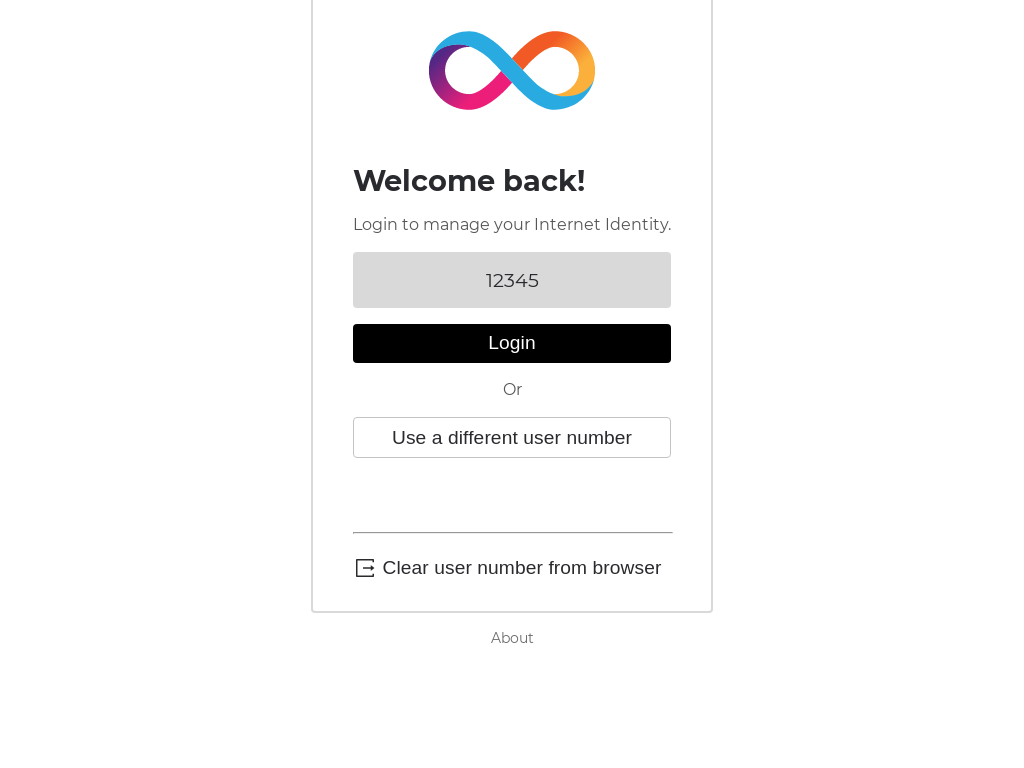
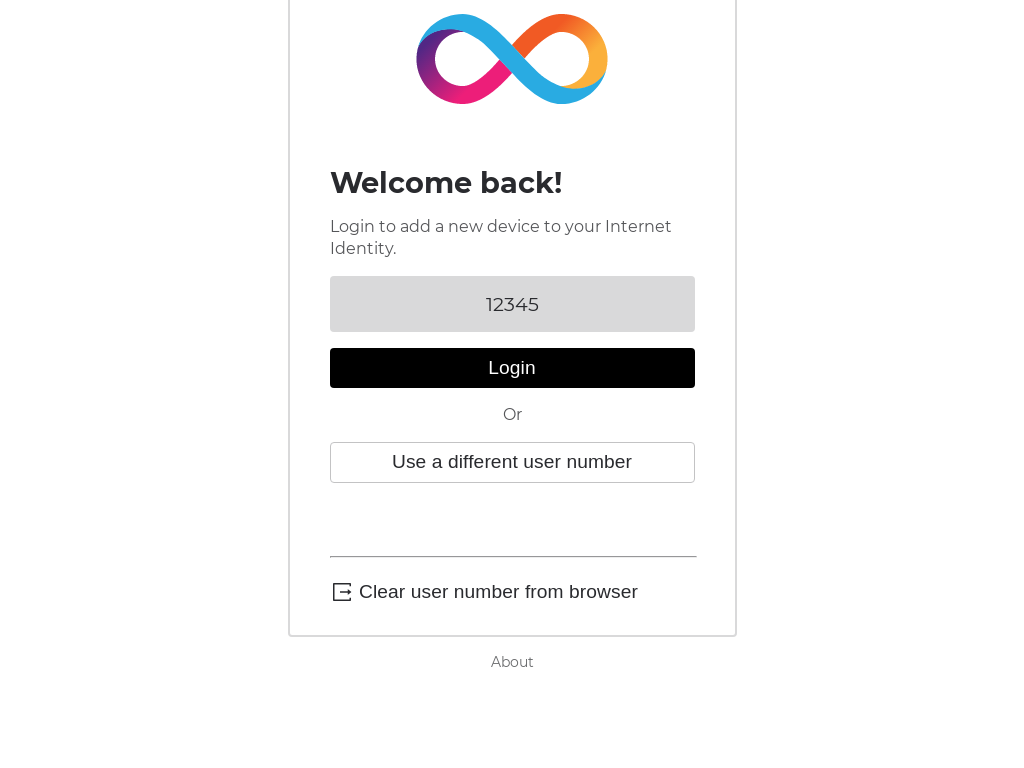
Customize the login page based on user intent (#198)
* Customize the login page based on user intent

* Updating selenium screenshots

* kick CI

diff --git a/src/frontend/src/flows/login.ts b/src/frontend/src/flows/login.ts
@@ -5,14 +5,15 @@ import { icLogo } from "../components/icons";
 import { withLoader } from "../components/loader";
 import { logoutSection, initLogout } from "../components/logout";
 import { IDPActor } from "../utils/idp_actor";
+import { bannerFromIntent, UserIntent } from "../utils/userIntent";
 import { getUserNumber } from "../utils/userNumber";
 import { apiResultToLoginResult, LoginResult, loginUnknown } from "./loginUnknown";
 
-const pageContent = (userNumber: bigint) => html`
+const pageContent = (userNumber: bigint, userIntent: string) => html`
   <div class="container">
     ${icLogo}
     <h1>Welcome back!</h1>
-    <p>Login to manage your Internet Identity.</p>
+    <p>Login to ${userIntent}.</p>
     <div class="highlightBox">${userNumber}</div>
     <button type="button" id="login" class="primary">Login</button>
     <p style="text-align: center;">Or</p>
@@ -25,12 +26,12 @@ const pageContent = (userNumber: bigint) => html`
 
 // We retry logging in until we get a succesful user number connection pair
 // If we encounter an unexpected error we reload to be safe
-export const login = async (): Promise<{
+export const login = async (userIntent: UserIntent): Promise<{
   userNumber: bigint;
   connection: IDPActor;
 }> => {
   try {
-    const x = await tryLogin();
+    const x = await tryLogin(userIntent);
 
     switch (x.tag) {
       case "ok": {
@@ -38,7 +39,7 @@ export const login = async (): Promise<{
       }
       case "err": {
         await confirm({ message: x.message, detail: x.detail });
-        return login();
+        return login(userIntent);
       }
     }
   } catch (err) {
@@ -51,18 +52,18 @@ export const login = async (): Promise<{
   }
 };
 
-const tryLogin = async (): Promise<LoginResult> => {
+const tryLogin = async (userIntent: UserIntent): Promise<LoginResult> => {
   const userNumber = getUserNumber();
   if (userNumber === undefined) {
-    return loginUnknown();
+    return loginUnknown(userIntent);
   } else {
     const container = document.getElementById("pageContent") as HTMLElement;
-    render(pageContent(userNumber), container);
-    return init(userNumber);
+    render(pageContent(userNumber, bannerFromIntent(userIntent)), container);
+    return init(userNumber, userIntent);
   }
 };
 
-const init = async (userNumber: bigint): Promise<LoginResult> => {
+const init = async (userNumber: bigint, userIntent: UserIntent): Promise<LoginResult> => {
   return new Promise((resolve) => {
     initLogout();
     const loginButton = document.querySelector("#login") as HTMLButtonElement;
@@ -80,7 +81,7 @@ const init = async (userNumber: bigint): Promise<LoginResult> => {
     loginDifferentButton.onclick = async (ev) => {
       ev.preventDefault();
       ev.stopPropagation();
-      resolve(await loginUnknown());
+      resolve(await loginUnknown(userIntent));
     };
   });
 };

diff --git a/src/frontend/src/flows/loginUnknown.ts b/src/frontend/src/flows/loginUnknown.ts
@@ -6,8 +6,9 @@ import { register } from "./register";
 import { icLogo } from "../components/icons";
 import { addDeviceUserNumber } from "./addDeviceUserNumber";
 import { aboutLink } from "../components/aboutLink";
+import { bannerFromIntent, UserIntent } from "../utils/userIntent";
 
-const pageContent = () => html` <style>
+const pageContent = (userIntent: string) => html` <style>
     #registerUserNumber:focus {
       box-sizing: border-box;
       border-style: double;
@@ -44,7 +45,7 @@ const pageContent = () => html` <style>
   <div class="container">
     ${icLogo}
     <h2 id="loginWelcome">Welcome to<br />Internet Identity</h2>
-    <p>Provide your user number to login with Internet Identity.</p>
+    <p>Provide your user number to login and ${userIntent}.</p>
     <input
       type="text"
       id="registerUserNumber"
@@ -76,9 +77,10 @@ export type LoginResult =
     detail: string;
   };
 
-export const loginUnknown = async (): Promise<LoginResult> => {
+export const loginUnknown = async (userIntent: UserIntent): Promise<LoginResult> => {
+  
   const container = document.getElementById("pageContent") as HTMLElement;
-  render(pageContent(), container);
+  render(pageContent(bannerFromIntent(userIntent)), container);
   return new Promise((resolve, reject) => {
     initLogin(resolve);
     initLinkDevice();

diff --git a/src/frontend/src/index.ts b/src/frontend/src/index.ts
@@ -7,6 +7,7 @@ import { addDevice } from "./flows/addDevice";
 import { renderManage } from "./flows/manage";
 import { compatibilityNotice } from "./flows/compatibilityNotice";
 import { aboutView } from "./flows/about";
+import { intentFromUrl } from "./utils/userIntent";
 
 const init = async () => {
   const url = new URL(document.URL);
@@ -18,16 +19,22 @@ const init = async () => {
     return compatibilityNotice()
   }
 
-  const { userNumber, connection } = await login();
-  if (url.hash == "#authorize") {
-    auth(userNumber, connection);
-  } else if (window.location.href.match(/authorize/)) {
-    console.log("oauth");
-    oauth(userNumber, connection);
-  } else if (!!url.hash?.split("device=")[1]) {
-    addDevice(userNumber, connection);
-  } else {
-    renderManage(userNumber, connection);
+  const userIntent = intentFromUrl(url);
+  const { userNumber, connection } = await login(userIntent);
+
+  switch (userIntent.kind) {
+    case "auth": {
+      return auth(userNumber, connection);
+    }
+    case "oauth": {
+      return oauth(userNumber, connection);
+    }
+    case "addDevice": {
+      return addDevice(userNumber, connection);
+    }
+    case "manage": {
+      return renderManage(userNumber, connection);
+    }
   }
 };
 

diff --git a/src/frontend/src/utils/userIntent.ts b/src/frontend/src/utils/userIntent.ts
@@ -1,0 +1,28 @@
+// What does the user intend to do after logging in?
+export type UserIntent = ManageIntent | AuthIntent | OAuthIntent | AddDeviceIntent
+
+export type ManageIntent = { kind: "manage" }
+export type AuthIntent = { kind: "auth" }
+export type OAuthIntent = { kind: "oauth" }
+export type AddDeviceIntent = { kind: "addDevice" }
+
+export const intentFromUrl = (url: URL): UserIntent => {
+    if (url.hash == "#authorize") {
+      return { kind: "auth" }
+    } else if (url.href.match(/authorize/)) {
+      return { kind: "oauth" }
+    } else if (!!url.hash?.split("device=")[1]) {
+      return { kind: "addDevice" }
+    } else {
+      return { kind: "manage" }
+    }
+}
+
+export const bannerFromIntent = (intent: UserIntent): string => {
+    switch (intent.kind) {
+      case "addDevice": return "add a new device to your Internet Identity"
+      case "auth": return "authenticate using your Internet Identity"
+      case "oauth": return "authenticate using your Internet Identity"
+      case "manage": return "manage your Internet Identity"
+    }
+  }
